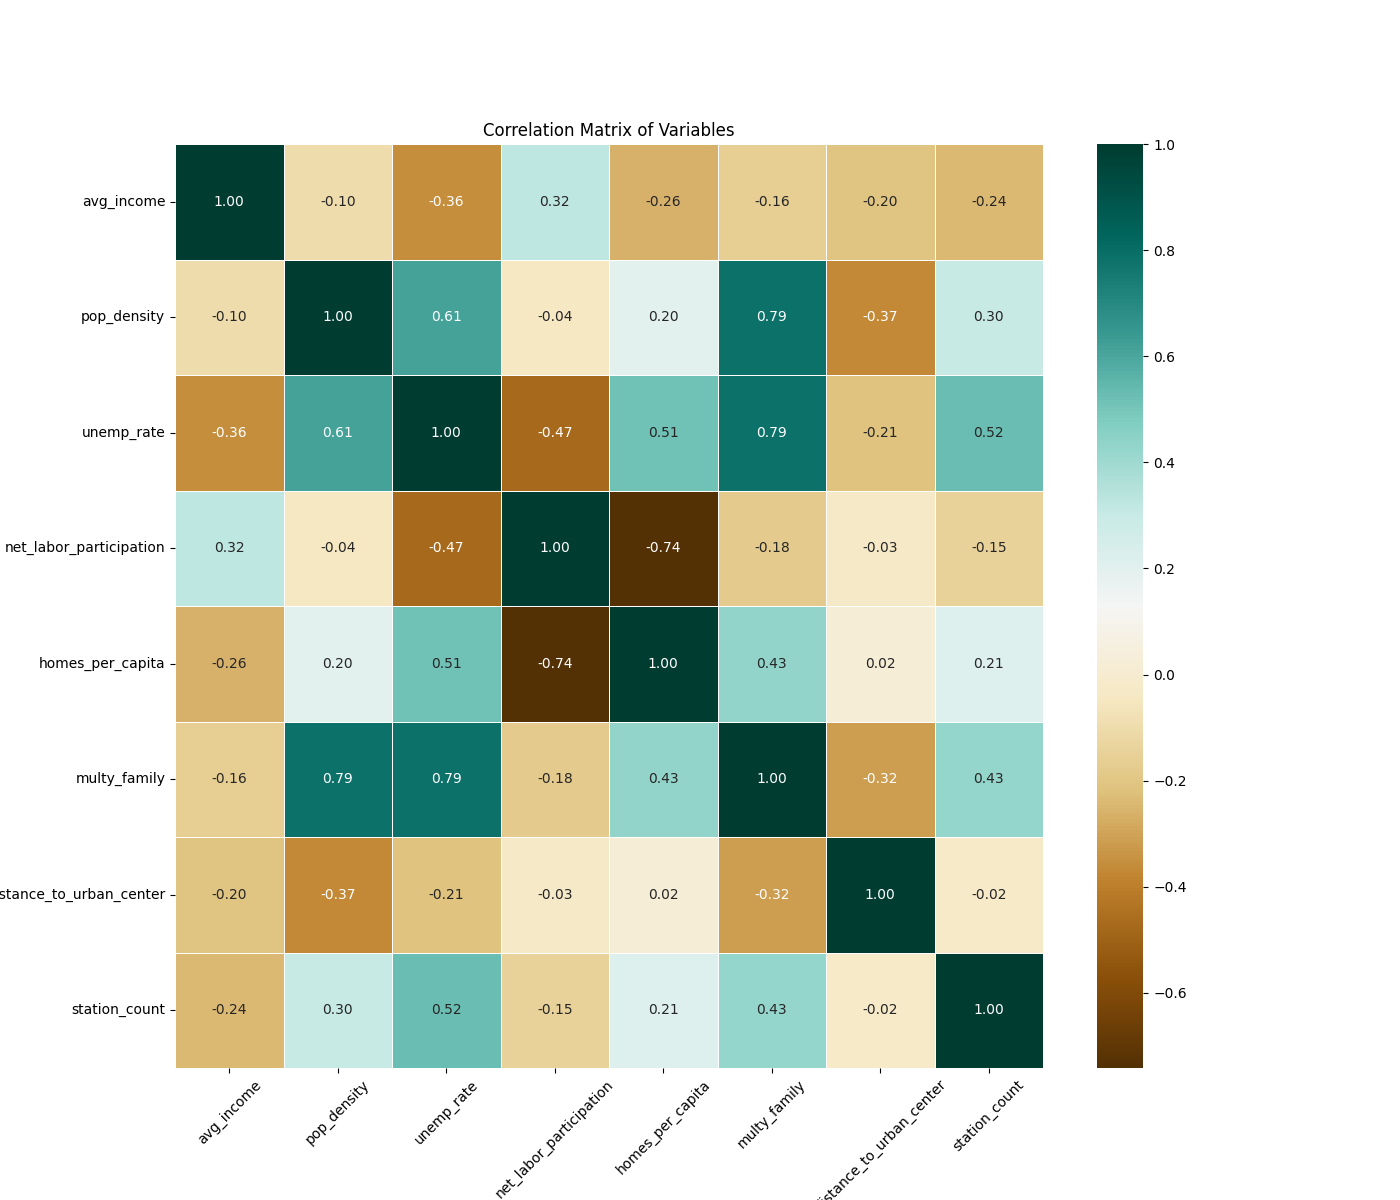
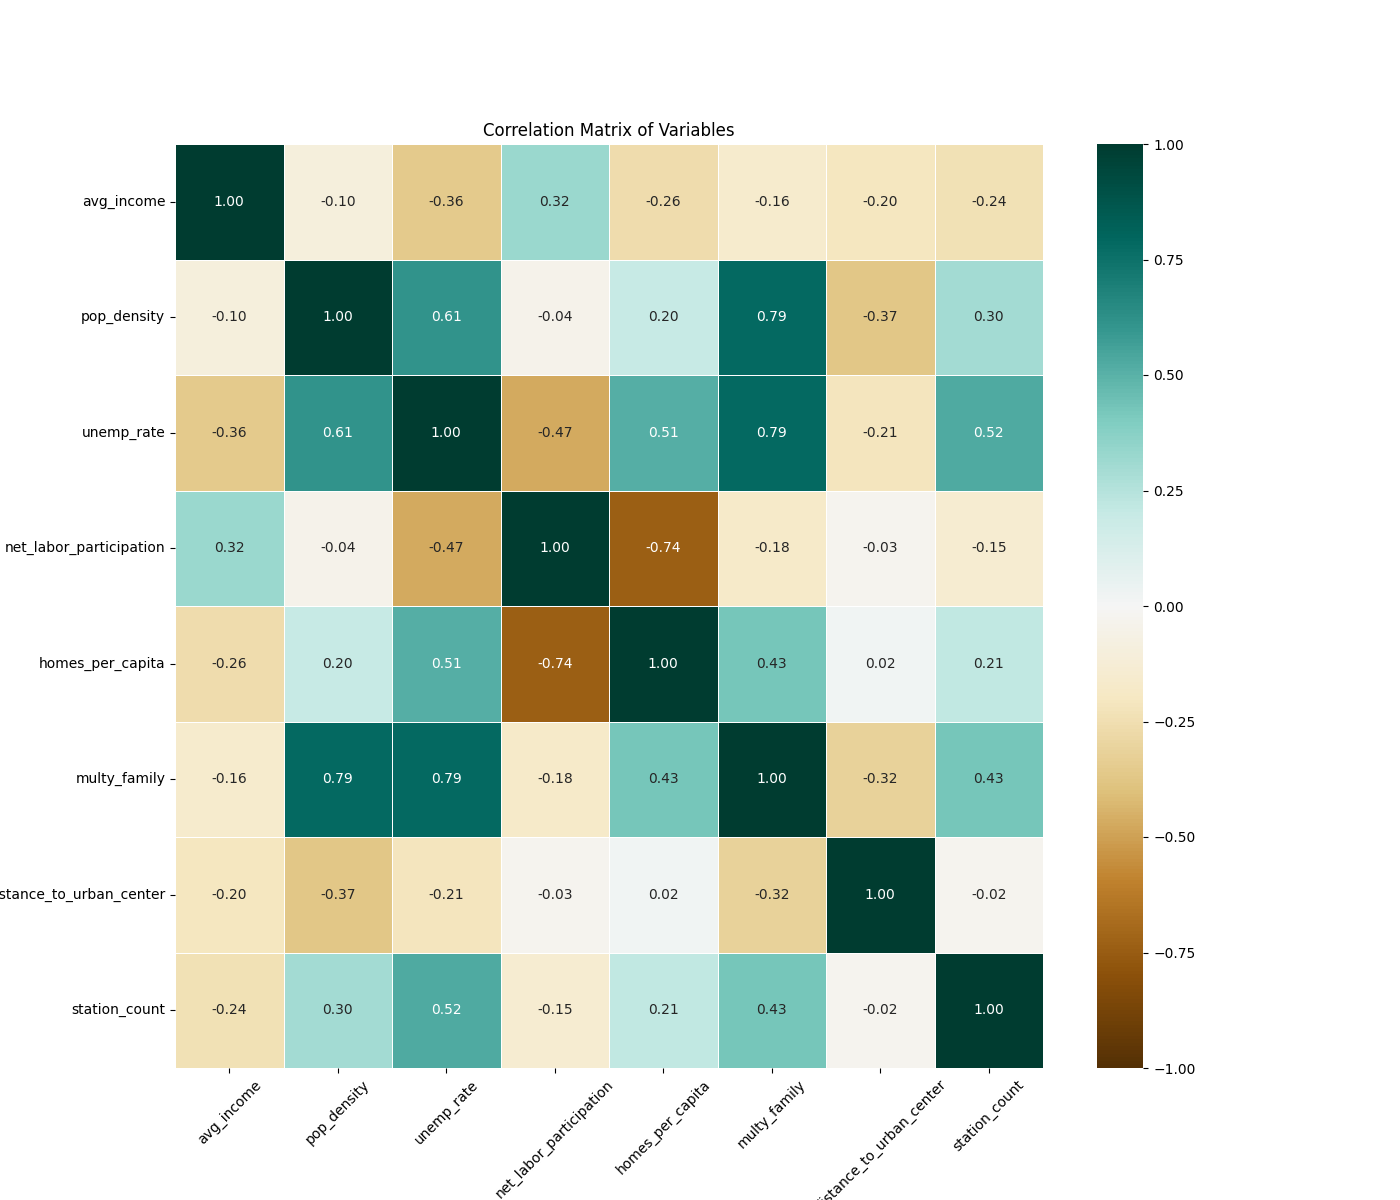
update plots

diff --git a/src/analysis/phase_1/plots.py b/src/analysis/phase_1/plots.py
@@ -3,7 +3,7 @@ import seaborn as sns
 import matplotlib.pyplot as plt
 import pandas as pd
 import os
-from src.analysis.utils import dir_path, phase_1_vars
+from src.analysis.utils import dir_path, phase_1_vars, phase_1_log
 
 output_path = os.path.join(dir_path, '../../output/figures/phase_1')
 
@@ -82,6 +82,24 @@ def scatter_plots(df: pd.DataFrame) -> None:
 
     plt.savefig(os.path.join(output_path, 'scatter_plots.png'))
 
+def plot_distribution(df: pd.DataFrame) -> None:
+    """
+    Create a distribution plot of the m2_price variable.
+
+    Parameters:
+        df: DataFrame with the main dataset
+    
+    Returns:
+        None
+    """
+    plt.figure(figsize=(10, 6))
+    sns.histplot(df['m2_price'], kde=True, bins=30)
+    plt.xlabel('m2_price')
+    plt.ylabel('Frequency')
+    plt.title('Distribution of m2_price')
+
+    plt.savefig(os.path.join(output_path, 'm2_price_distribution.png'))
+
 def correlation_heatmap(df: pd.DataFrame) -> None:
     """
     Create a heatmap of the correlation matrix of the variables.
@@ -95,11 +113,32 @@ def correlation_heatmap(df: pd.DataFrame) -> None:
     variables = phase_1_vars
 
     plt.figure(figsize=(14, 12))
-    sns.heatmap(df[variables].corr(), annot=True, fmt='.2f', cmap='BrBG', linewidths=.5)
+    sns.heatmap(df[variables].corr(), annot=True, fmt='.2f', 
+                cmap='BrBG', linewidths=.5, vmin=-1, vmax=1)
     plt.xticks(rotation=45)
     plt.title('Correlation Matrix of Variables')
 
     plt.savefig(os.path.join(output_path, 'corr_heatmap.png'))
+
+def updated_log_corr_heatmap(df: pd.DataFrame) -> None:
+    """
+    Create a heatmap of the correlation matrix of the log-transformed variables.
+
+    Parameters:
+        df: DataFrame with the main dataset
+    
+    Returns:
+        None
+    """
+    variables = phase_1_log
+
+    plt.figure(figsize=(14, 12))
+    sns.heatmap(df[variables].corr(), annot=True, fmt='.2f', 
+                cmap='BrBG', linewidths=.5, vmin=-1, vmax=1)
+    plt.xticks(rotation=45)
+    plt.title('Correlation Matrix of Log-Transformed Variables')
+
+    plt.savefig(os.path.join(output_path, 'log_corr_heatmap.png'))
 
 def create_plots(df: pd.DataFrame) -> None:
     """
@@ -114,3 +153,5 @@ def create_plots(df: pd.DataFrame) -> None:
     plots_station_no_station(df)
     scatter_plots(df)
     correlation_heatmap(df)
+    updated_log_corr_heatmap(df)
+    plot_distribution(df)

diff --git a/src/analysis/phase_1/tests.py b/src/analysis/phase_1/tests.py
@@ -19,28 +19,21 @@ def run_tests(df: pd.DataFrame) -> dict:
     """
     print("Running tests...")
 
-    # Split the data into two groups based on the presence of train stations
     with_station = df[df['has_station']]['m2_price']
     without_station = df[~df['has_station']]['m2_price']
 
-    # Normality test (Shapiro-Wilk) for both groups
     shapiro_with_station = shapiro(with_station)
     shapiro_without_station = shapiro(without_station)
 
-    # Homogeneity of variances test (Levene's test)
     levene_test = levene(with_station, without_station)
 
-    # Decide which test to use for comparing the groups based on normality and variance results
     if shapiro_with_station.pvalue > 0.05 and shapiro_without_station.pvalue > 0.05 and levene_test.pvalue > 0.05:
-        # Use an independent t-test
         test_result = ttest_ind(with_station, without_station, equal_var=True)
         test_type = 'Independent t-test'
     else:
-        # Use Mann-Whitney U test
         test_result = mannwhitneyu(with_station, without_station, alternative='two-sided')
         test_type = 'Mann-Whitney U test'
 
-    # Compile results into a readable format, including statistics
     results = {
         'Normality Test (With Station) Statistic': shapiro_with_station.statistic,
         'Normality Test (With Station) P-value': shapiro_with_station.pvalue,
@@ -83,7 +76,6 @@ def save_test_results(results: dict, output_file: str) -> None:
             \\hline \\\[-1.8ex]
     """
 
-    # Adding each test's name, statistic, and p-value to the LaTeX table
     latex_table += f'            Normality Test (With Station) & {results["Normality Test (With Station) Statistic"]:.4f} & {results["Normality Test (With Station) P-value"]:.4f} \\\\\n'
     latex_table += f'            Normality Test (Without Station) & {results["Normality Test (Without Station) Statistic"]:.4f} & {results["Normality Test (Without Station) P-value"]:.4f} \\\\\n'
     latex_table += f'            Levene Test for Equal Variances & {results["Levene Test for Equal Variances Statistic"]:.4f} & {results["Levene Test for Equal Variances P-value"]:.4f} \\\\\n'
